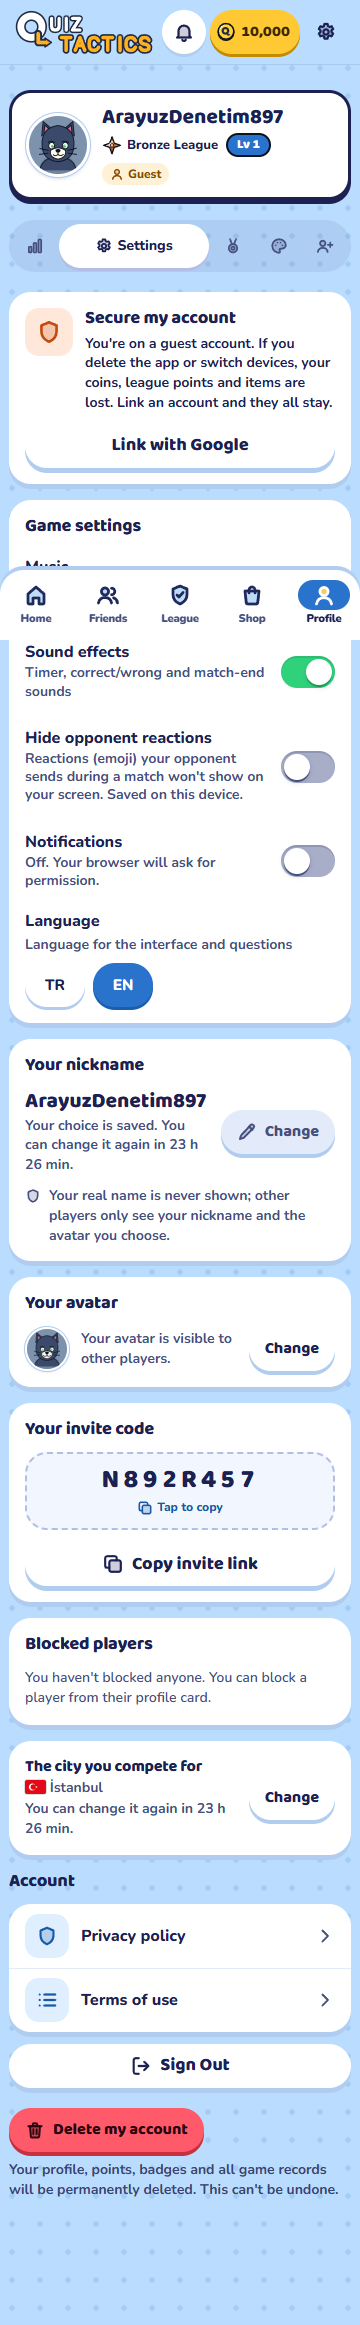
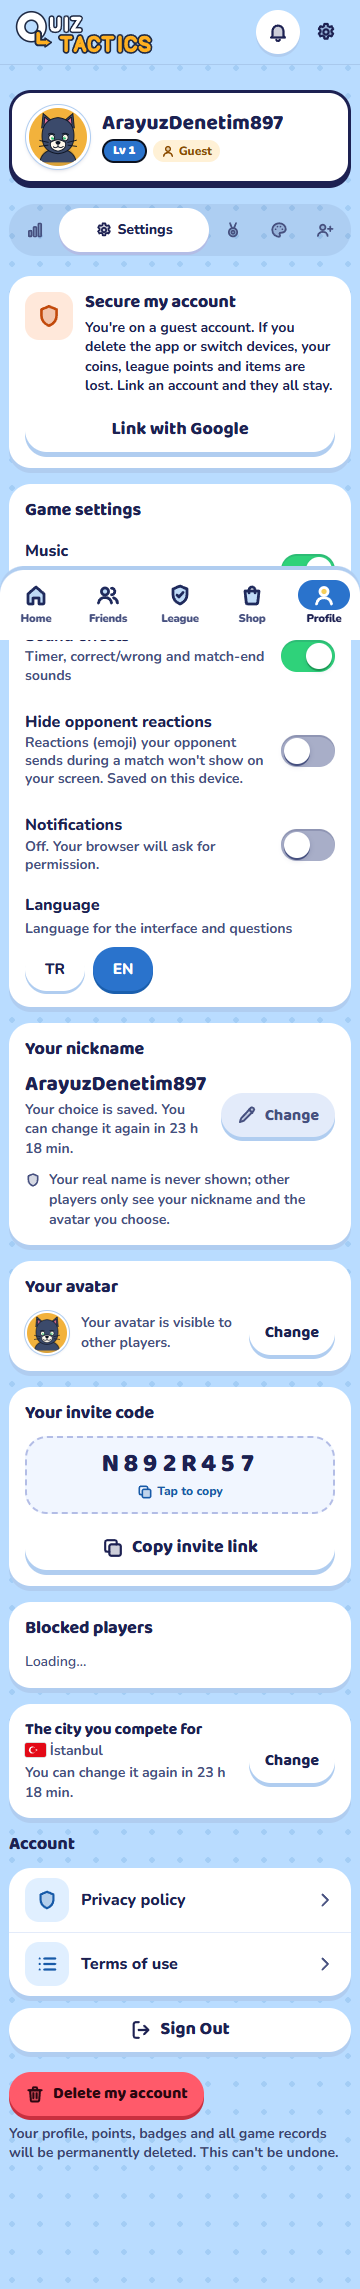
Profil: level şeridi yalnız Ayarlar/Davet'te gizli; PROGRESS + PROJECT_CONTEXT ekran revizyonu Aşama 2
Claude-Session: https://claude.ai/code/session_01BuZF72kTNc2LNJy4ChhTVP

diff --git a/oyun/pages/ProfilePage.jsx b/oyun/pages/ProfilePage.jsx
@@ -76,7 +76,7 @@ export default function ProfilePage() {
   // Profil dört sekmeye ayrıldı; varsayılan İstatistiklerim.
   const [sekme, setSekme] = useState("istatistik");
   // Ekran revizyonu A (Ida, 10 Eki 2026): Ayarlar/Davet'e doğrudan gelinince (/profil?sekme=…) üstte yalnız kısa kimlik satırı
-  // (level çubuğu yok). Sekme tıklamaları bunu değiştirmez; dışarıdan gelen her bağlantı yeniden belirler.
+  // (level çubuğu yok; İstatistik/Rozet/Koleksiyon sekmesine geçince çubuk gelir). Dışarıdan gelen her bağlantı yeniden belirler.
   const [kisaKimlik, setKisaKimlik] = useState(() => {
     try { return ["ayarlar", "davet"].includes(new URLSearchParams(window.location.search).get("sekme")); } catch { return false; }
   });
@@ -264,7 +264,7 @@ export default function ProfilePage() {
             </span>
           </div>
         </div>
-        {!kisaKimlik && (
+        {!(kisaKimlik && (sekme === "ayarlar" || sekme === "davet")) && (
           <div className="qt-pf-serit">
             {/* Rütbe etiketi kaldırıldı (2 Eki 2026): LevelCubugu zaten "Level N · {rütbe}" gösteriyor, tekrardı. */}
             <LevelCubugu profile={profile} canli levelYok />

diff --git a/PROGRESS.md b/PROGRESS.md
@@ -11386,3 +11386,25 @@ Kaldırıldı: "Hazine sende: {k} puan" başlığı, AÇ alt yazısı "Skor x/y"
   /arkadaslar, 404 → farklı piksel %0,00 (canlı ekranlar değişmedi) · misafir hesapla /ekran-revizyon-onizleme → "Bu sayfa yalnız sahibe açık" · sahip
   hesabıyla (Chrome) sayfa açılıyor. Denetim misafiri ArayuzDenetim685 silindi. Görüntüler `tasarim/ekran-revizyon/once-*.png`, `sonra-*.png`.
 - **Sırada (Aşama 2, Ida onayı bekliyor):** her bölüm için A/B seçimi; seçilen varyant ilgili sayfaya taşınacak.
+
+## 2026-10-10 — Ekran revizyonu Aşama 2: seçilen varyantlar canlıda + Cevap İmzası Düello'dan çıktı
+**Araç:** Claude Code
+**Neden:** Ida /ekran-revizyon-onizleme'de seçti: Hatalarım A · Profil A · boş durumlar A (Hatalarım, Mesajlar, Bildirimler, 404) / B (Arkadaşlar, Lig › Arkadaşlar). Ek: imza v4 sonuç penceresinde güzel durmuyor.
+
+- **Hatalarım** (`CalismaPage`, `m1-calisma.css › .m1-cal-afis-sayi/.m1-cal-kat-*`): `QtAfis` (kitap, turuncu; sağda bekleyen / "Temiz"; şerit öğrenilen/toplam,
+  hiç kayıt yoksa eski alt başlık) + 2 sütun (≥700 px 3) kategori kartı. Kararlar: kartlar BÜTÜN kategoriler (eski şerit gibi; yeni soruyla pratik
+  seçimi kaybolmasın), bankadakiler önde, sayı rozeti yalnız > 0; kategori dağılım çubukları kartlardaki sayıya devredildi. Boş hâl: QtBosDurum sahne A,
+  kategori + soru sayısı + "Pratik turuna başla" altta durur (önizlemedeki kart içi düğme yerine — tek düğme, seçim kaybolmasın). Migration yok.
+- **Profil** (`ProfilePage`, `dukkan-profil.css › .qt-pf-kisa/.qt-pf-oduller/.qt-pf-vitrin/.qt-pf-level-odul`): dikey vitrin kartı → tek satır kimlik
+  (CerceveliAvatar 64 hareketli + takılı kart arka planı `KartArkaPlanKatmani`, IsimEfekti, unvan, `KartLigSatiri` lig+Lv+BP, misafir) + level şeridi;
+  sekmeler hemen altta. İstatistik başı "Ödüllerim": 3 sayı (boş hedefleriyle), vitrin rozetleri, LevelOdulleri, KoleksiyonDokumu (hepsi gerçek veri).
+  `?sekme=ayarlar|davet` dışarıdan gelince level şeridi yok; öteki sekmeye geçince gelir. Bırakılan tek şey lig sahnesi filigran amblemi (dekor).
+  `OyuncuVitrinKarti` dokunulmadı. Eski araçlar `.qt-pf-kimlik > .qt-pf-ok` arıyorsa (denetim-10eki-ekran, lig-gorsel-ekran) artık geçersiz.
+- **Boş durumlar:** Mesajlar, BildirimZili (`bz-bos-gorsel`, + "Maç yap" → ana sayfa), 404 (kapalı mod/bölüm notu aynen ikonlu) → sahne; Arkadaşlar
+  (davet kartı hemen üstte olduğu için ek düğme yok) ve Lig "tek başınasın" (şehir metni aynen, iki düğme aynen) → rozet. Metinler önizlemedeki kısa hâl.
+- **Cevap İmzası:** `Duello4Arena` satırı + import + `useTakiliImza` kaldırıldı; öteki modlar aynen. Dükkân/çeviride Düello'ya özel metin yoktu.
+  `cevap-imzasi-ekran.mjs` Düello bölümü artık imzanın OYNAMADIĞINI sınar: klasik + duello 64/64 (taklit).
+- **Önizleme:** sayfa duruyor, başına "Aşama 2 uygulandı — Şu anki sütunu eski hâl" notu (TR/EN). Kaldırmak Ida kararı.
+- **Doğrulama:** build temiz · `arayuz-denetim` TEMİZ · `araclar/ekran-revizyon-asama2.mjs` (yeni; misafir oturumu, Hatalarım dolu hâli taklit yanıt,
+  EN için profilim dili yalnız tarayıcıda) 11 ekran × 360/390 × TR/EN = 44 kare önce/sonra `tasarim/ekran-revizyon/asama2/`: taşma 0, konsol 0
+  (son kısmi koşuda bir kez Supabase 504 `cihaz_bildir` — sunucu tarafı, geçici). Not: aynı klasördeki eski Vite (5173) kullanıldı, iş sonunda kapatıldı.

diff --git a/PROJECT_CONTEXT.md b/PROJECT_CONTEXT.md
@@ -944,3 +944,4 @@ Her pakette: `node araclar/oyuncu-testi.mjs [--adres=https://quiztactics.com]`.
 - Oyunda arka plan YOK (dondurulmuş, 1 Eki 2026): `oyun_ayarlari.arka_plan_acik=false`, pa_* pasif; ayrıntı PROGRESS.md.
 
 - **Ana sayfa: mod kartları (Ida onaylı taslak, 7 Eki 2026):** Klasik tam genişlik büyük kart (120 px; ekran ≤700 px yükseklikte 96; başlık 26 px, 64 px ikon dairesi, "Hızlı sorular, en çok bilen kazanır", sağda ok); altında Düello ("Kategorini savun") + Ortak Hazine ("Doğru anda aç") yan yana yarım genişlik 64 px kart (ikon + başlık + tek kısa satır). Parlama/nabız/rozet yok. "OYNA/DÜELLO" düğmeleri ve Kasa kısayolu kalktı. Telefonda sıra: oyuncu → turnuva → mod kartları → lig → Sezon + Görevler → kısayollar (Meydan, Grup, Saf Bilgi, Hatalarım). Ortak Hazine kartı yalnız `kasa_modu_acik ≥ 1` iken (kapalıysa Düello tam genişlik). Tıklama davranışı eskisiyle aynı (Klasik → mod seçim penceresi, Düello → `/duello`, Ortak Hazine → `/kasa`). Altta "En son oynadığın: {mod}" (`localStorage` `qt:v1:ana-son-mod`, `veri.jsx › sonModuYaz/sonModuOku`; sırayı değiştirmez). "Ortak Hazine" adı 6 Eki 2026'dan beri modun her yerinde (bkz. Kasa bölümü). Kodlar: `AnaSayfaA.jsx`, `anasayfa.css` (dosya sonu), ikon `sandik` (`tasarim/Ikon.jsx`), ölçüm `araclar/ana-sayfa-serit-olcum.mjs`.
+- **Ekran revizyonu (Ida seçimi, 10 Eki 2026, canlıda):** **Hatalarım** (`CalismaPage`) = turuncu kitap afişi (`QtAfis`, sağda bekleyen sayı, şeritte "{öğrenilen}/{toplam} soruyu öğrendin") + 2 sütunlu kategori kartları (bütün kategoriler; bankada sorusu olan önde, sayı rozeti yalnız > 0) + soru sayısı + turuncu düğme; "bu hafta öğrenilen" YOK (sunucuda alan yok). **Profil** (`ProfilePage`, yalnız kendi profilin) = kompakt kimlik satırı (`.qt-pf-kisa`: çerçeveli avatar + takılı kart arka planı, isim efekti, unvan, lig + Lv + BP, misafir) + level/XP şeridi → sekmeler ilk ekranda; puan/şampiyonluk/seri, vitrin rozetleri, sıradaki level ödülleri, Koleksiyon özeti İstatistik sekmesinin başında **Ödüllerim**. `/profil?sekme=ayarlar|davet` doğrudan gelince level şeridi yok (kısa kimlik). Başkasının kartı (`OyuncuVitrinKarti`) aynen. **Boş durumlar** (`QtBosDurum gorsel`): sahne (A) Hatalarım · Mesajlar · Bildirim paneli · 404; rozet (B) Arkadaşlar · Lig "tek başınasın"; öteki kullanımlar ikonlu eski hâl. `/ekran-revizyon-onizleme` duruyor ("Şu anki" sütunu artık eski hâl; kaldırma Ida kararı). Görüntüler `tasarim/ekran-revizyon/asama2/`, araç `araclar/ekran-revizyon-asama2.mjs`.
